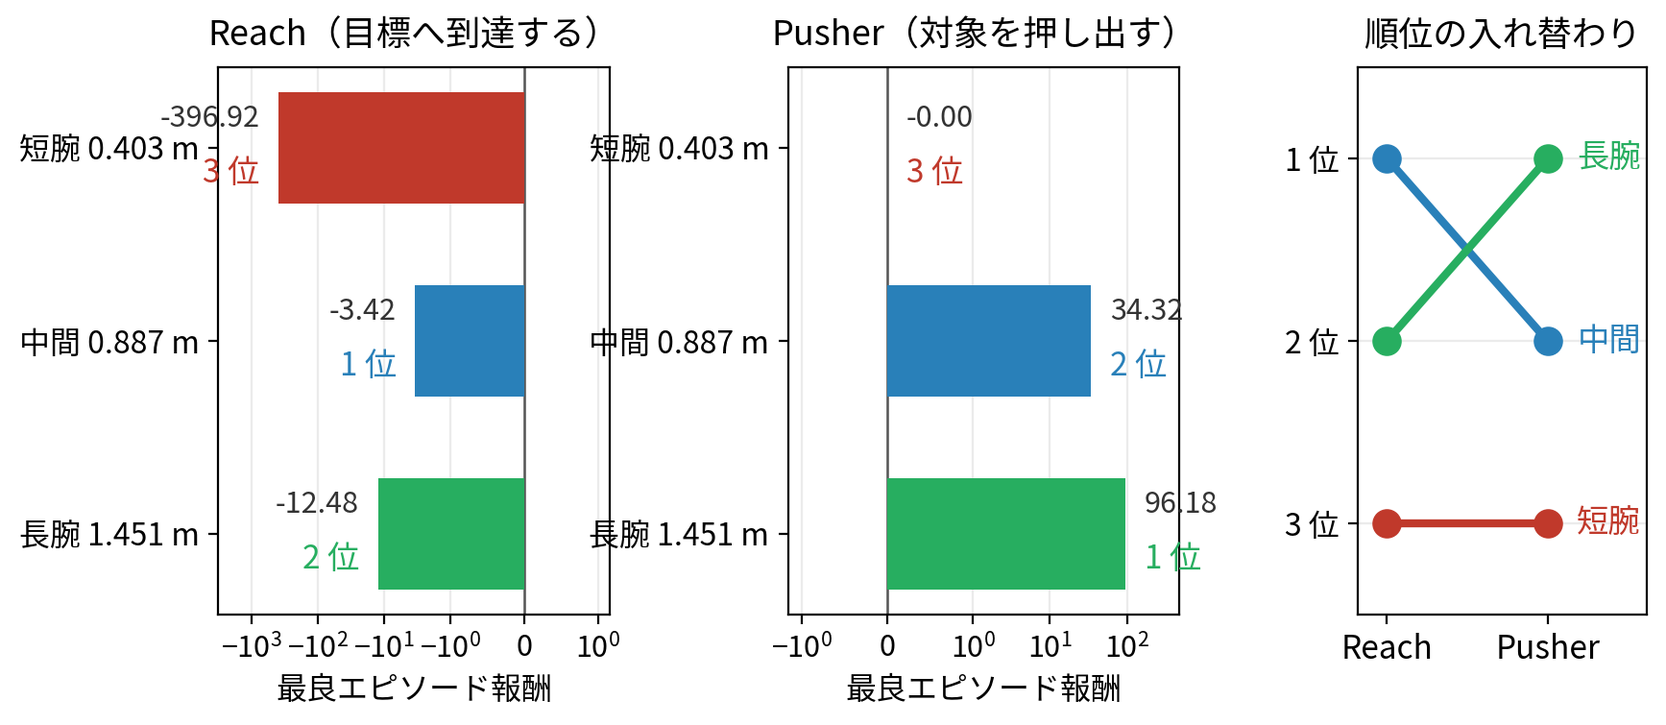
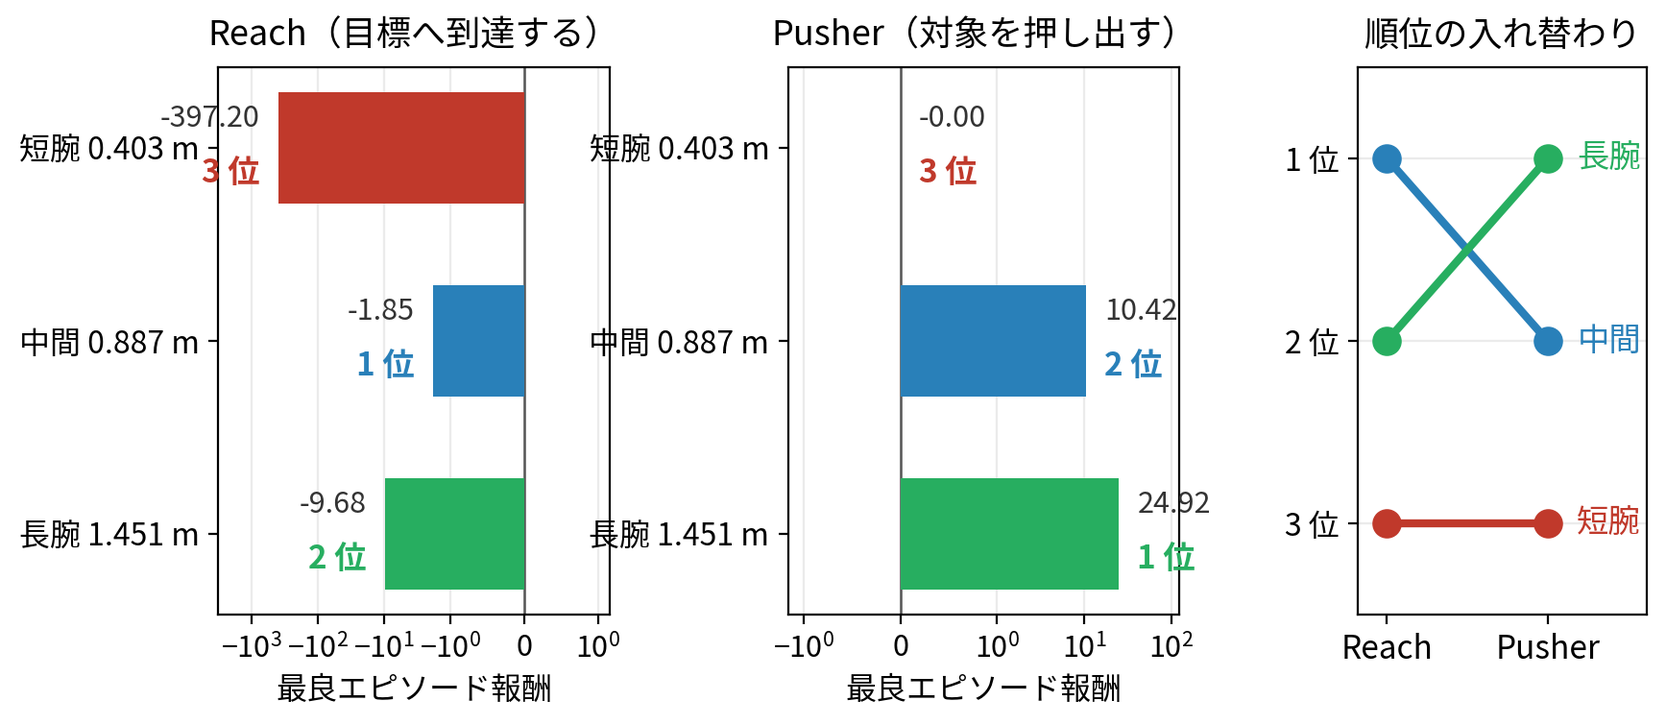
系譜 9-282・D-6: 修論 4.4.3.1・4.4.3.2 を実在の物理で書き直す — 短腕の gear は下限に張り付かず（J1 150）、長腕は ep0〜2 から短腕を下回らない。「下限への張り付きは不適合の指標にならない」は保たれる（届いた中間 seed0 が 3 関節とも 20）
- 系譜 9-282: マトリクス 10 本の収束した gear・太さ（arm_trace.npz）と順位が決まったエポック
- 修論 4.4.3.1（両版）: 表 4.11 を実在の物理の値に。旧い「3 関節とも下限」「第 26 エポックまで短腕が上」を外す
- 修論 4.4.3.2（両版）: 反転の機構を初期姿勢から目標までの距離（9-268）に。表 4.13（表 4.12 と同じ対応）と限界 1〜4 を外す＝型 27 の候補 ④。表 4.13 は欠番（振り直しは 50 ページ化の後）
- 図 4.4 を実在の物理のシード 0 から作り直す（make_thesis_figures.py の run 名）
- 4.6.3 に執筆メモ（R4 の旧い値と 9-282）。形態比較 ④ と CLAUDE.md §6 の署名の 1 句
- 外した本文は削除・圧縮記録（2026-10-22）。PDF 69 ページ

diff --git a/scripts/make_thesis_figures.py b/scripts/make_thesis_figures.py
@@ -73,8 +73,9 @@ def running_best(y):
 def fig_matrix_reversal():
     labels = ['短腕 0.403 m', '中間 0.887 m', '長腕 1.451 m']
     cols = [C_SHORT, C_MID, C_LONG]
-    runs_r = ['tripo_pj_short', 'tripo_pj_mid', 'tripo_pj_long']
-    runs_p = ['tripo_pjp_short', 'tripo_pjp_mid', 'tripo_pjp_long']
+    # 実在の物理のシード 0（系譜 9-246）。短腕は Bug 72 の門を直した取り直し（9-271）
+    runs_r = ['tripo_pj_short_phys_cg', 'tripo_pj_mid_phys', 'tripo_pj_long_phys']
+    runs_p = ['tripo_pjp_short_phys_cg', 'tripo_pjp_mid_phys', 'tripo_pjp_long_phys']
     best_r = [running_best(curve(r)[1])[-1] for r in runs_r]
     best_p = [running_best(curve(r)[1])[-1] for r in runs_p]
 

diff --git a/docs/研究応用/引き継ぎ_再起動後.md b/docs/研究応用/引き継ぎ_再起動後.md
@@ -14,7 +14,7 @@
 | | 中身 |
 |---|---|
 | 🔄 **稼働中（10-13〜）** | ⭐⭐ **実在の物理の値で全部やり直し（`*_phys` 43 本、`scripts/queue_phys.sh`、⛔ 10-14 08:59 に再投入＝速度の上限で位置も切る `CNOID_JOINT_MAX_VEL_STRICT=1` を足した（Bug 65・9-248。それまでの 6 本は `*_nostrict` へ退避。その前に tick の完了待ちを足して 1 回再投入、Bug 64・9-247）。⛔ **10-14 14:07 にもう一度再投入**＝回転子の慣性を 0.64 → 1.71（減速機の慣性を足した、9-251。XML は `*_phys_arm171`、止めた 2 本は `*_arm064`）、~~10-24 午後ごろ完走~~（9-254 の見積もり。⛔ 完走の見込みの正は進捗.md「残っている実験」、10-22 10 時 45 分の計算で閉ループの押しまで 10-23 19 時半ごろ（R1 の取り直しを割り込ませた、系譜 9-281）。旧: 10-21 17 時 20 分の計算で 10-23 18 時ごろ。付録D の 4 本は 10-21 に外した（a7bbb57）。旧: 付録D まで 10-27 16 時ごろ）（⚠ 10-18: ホッケーの取り直し 2 本が枠を取り合うので半日ほど後ろへずれる見込み、9-263）、系譜 9-246）**。~~最初の押しの柱 long・mid と armature 1 の対照 2 本で方向性を確かめる（読み ⑭⑮）~~（✅ 判定済み、系譜 9-259）。自動再生・ホッケーのゴール率・検査の比べる組は `*_phys` に切り替え済み。⚠ ディスクは 10-13 に退避 run の途中のチェックポイントを消して 14 GB → **10-14 には 12 GB**（完走までの見込み約 13.4 GB に足りない。✅ 10-14 ユーザー承認: 旧い物理の run の途中のチェックポイントを間引く `bash scripts/prune_archived_ckpts.sh --delete`（4031 ファイル・43 GB。best・最後・100 epoch ごと・100 以下は残す、`*_phys*` は触らない。系譜 9-254）。✅ 10-14 21:4x に実行（ユーザーが今回だけ許可）→ **空き 55 GB**。⚠ 10-20 22 時の実測は 40 GB（使用 96 %、系譜 9-270。残りの見込み 約 8 GB には足りる）。10-21 11 時 25 分の実測は 37 GB（96 %）。ホストのシェルでは `/userdir` が無いので `df -h ~/irsl_docker_irsl_system/userdir` で見る）。⭐ 変えた値の一覧は `研究応用/設計/シミュレーションの値の変更表.md`。⬇ 下の行は 10-12 以前の状態 |
-| ⭐ **次の一手（10-21 11 時 25 分時点、14 時 15 分・15 時 50 分・16 時 55 分・18 時 35 分・19 時 40 分・10-22 0 時 55 分・8 時 15 分に追記）** | ⭐ **10-22 8 時 15 分追記**: ✅ 8 時 20 分に push 済み（ユーザー「いいよ」、f6aa98f..3b3cfaa の 9 本）。✅ 押しの短腕 `tripo_pjp_short_phys_cg` を判定（系譜 9-280）: ⑯ 成立、表 4.12 が埋まった、R4 の残り 3 組も確定。⭐ Bug 72 の全数監査（実在の物理の完走 44 本）で、取り直し済みの 4 本のほかに汚れなし（9-279）。残り: R1（凍結の押し、seed1 は 16 時ごろ）→ ⑪〜⑬。⭐ 今のデータで書ける D-6: 4.4.3.1・4.4.3.2・4.5.1・4.5.4 の到達・4.5.5 の到達・4.6.2・4.6.3（ユーザーに一覧を示した、10-22 1 時）。⬇ **10-22 0 時 55 分追記**: ✅ 押しの dist `tripo_pjdp_dist_phys_cg` と到達の短腕 `tripo_pj_short_phys_cg` を判定した（系譜 9-279）: ⑲ 3/3・⑳・⑤-a（prox [11.39, 12.09] 対 dist [5.38, 7.04]）・① の後半・③ が成立。⛔ 押しの差の説明「立ち上がりやすさが主因」は崩れた（門を直した dist seed0 は ep10 で 62 % 触れて押せた）→ 修論 4.4.3.3 の押しの段落（両版）・Q27・知見総括表 E 節を直した。表 4.12 の Reach の短腕を埋めた。残り: ⑯（押しの短腕 `tripo_pjp_short_phys_cg`、10-22 7 時半ごろ完走）→ R4 の残り 3 組 → D-6。⚠ 4.4.3.1 の前向き判定の表（短腕 −396.92 など）は旧い物理の値のまま → D-6 で。⬇ **19 時 40 分追記**: 第4章の 4.1 を役割で組み替えた（上の「直近の決定」10-21 19 時、削除・圧縮記録 2026-10-21、型 27）。PDF は 72 ページのまま。次は新しい 4.1・4.2 を両版の行リンクで示して行の添削（本文で 4.1 は約 4,200 字、4.2 は約 2,300 字。組み替え前の 4.1 は同じ数え方で約 7,500 字）。⏳ 型 27 で全章を洗った候補 6 つ（4.6.5 の考察の重複・4.6.1 第 2 段落・即時性の 2 回・4.4.3.2 は D-6 のとき・付録の欠番 B/C・4.6.3 の理由の言い直し）は [わかりにくい文の判定.md](執筆/わかりにくい文の判定.md) §5 の 10-21「4.1 を役割で分けて組み替える」の行。どれもまだ直していない（ユーザーの判断待ち）。型は 1〜27。 ⭐ **18 時 35 分追記（チャットを替える前）**: (a) **修論の添削は第3章まで済んだ**（3.7〜3.12 を 10-21 夕に指摘・反映。次は第4章だが、結果の段落は D-6 待ちなので、入る前に「第4章の節ごとのページ予算表」を作るか、D-6 に依存しない節から進めるかをユーザーと決める）。(b) 型は [わかりにくい文の判定.md](執筆/わかりにくい文の判定.md) の 1〜26（26 = 項が 1 つしかない節は項を立てない。⭐ 19 時 40 分に 27 = 長い節は役割で大きく分けてから、を足した）。型 12 を各工程の節へ（途中経過の図に沿って書く）、型 24 にスクリプト名、型 25 に「図と文のあいだも同じ」を足した。§5 に 10-21 夕の記録が 6 表ある。(c) **PDF は 72 ページ**（18 時 30 分）。76 → 72 はビルドの表の列幅を等分から「文字量の平方根に比例」に変えた効果（822674b）。⏳ 次の候補: 表を浮動体にして、見出しだけページ末尾に残る空白を減らす（表 4.2 など。表が本文の位置から離れうるので、ユーザーに諮ってから）。⏳ 本文の ⚠ ⭐ ⛔ は PDF で空白になる（提出前に一括で外す）。(d) ✅ 10-21 18 時 40 分ごろ push 済み（ユーザー「push しようとしたらエラーが出たからそこまでお願い」、58fdfdb..5c95791）。⚠ ホストから push すると GitHub へは届くが、手元の `.git/logs` が root 所有なので `refs/remotes/origin/main` の更新で「許可がありません」と出る → コンテナで `git fetch origin` すればそろう。(e) **23 時 40 分ごろの 2 本**（`tripo_pj_short_phys_cg`・`tripo_pjdp_dist_phys_cg`）の完走を知らせる待ち受けは前のチャットのもので、新しいチャットには届かない → `tail -80 single_run/postrun_summary.log` に `=== tripo_pj_short_phys_cg` と `=== tripo_pjdp_dist_phys_cg` の行が出ていれば、ユーザーに知らせ、**確認を取ってから**判定（⑲ の 3 本目・⑤・⑳・① の後半・③・R4）に入る（ユーザー指示 10-21 夕）。(f) 図: 第3章の図 3.2〜3.5 は `scripts/render_pipeline_stages.py` の論文用（`figures/pipeline_*_paper.png`）。図 3.1 の原本 `執筆/システム図.drawio` を直したら `make_system_figure.py` で論文用を作り、書き出しはホストの draw.io を `DISPLAY=:1` で（コンテナに draw.io は無い。書き出し先は root 所有なのでスクラッチに出して `docker cp`）。⬇ 16 時 55 分追記: ⭐ **16 時 55 分追記（チャットを替える前）**: (a) **修論の添削は 3.7 から**（3.6 まで指摘済み。3.12.6 と 3.13 は外した。型は [わかりにくい文の判定.md](執筆/わかりにくい文の判定.md) の 1〜25。24 = 粒度の線〔本文に残すのは手順・理由・主張の範囲・再現に要るものだけ〕、25 = 同じ事実は測った場所で 1 回）。(b) 付録の見直しは済んだ（付録は A と D だけ。D は D.1〜D.4。D.5 非平面と本文 4.3.5 は外した、a68ce7f）。(c) `queue_phys.sh` は 10-21 16 時 47 分に PID 3245471 で再投入（v3 の 4 本を外した。残り 7 本は不変、a7bbb57）。(d) push していないコミットは 5 本（f836d37・a68ce7f・a7bbb57・23eac3a・acc177a）。push はユーザーの確認待ち。(e) 要旨_詳細版の第一・第三の貢献には旧い物理の数値（−3.42・96.18 など）が残っている → D-6 で差し替える。第二の貢献は acc177a で直した。(f) 修論 PDF は 75 ページ（10-21 16 時 50 分）。⬇ **15 時 50 分追記**: ✅ dist の到達 2 本を判定した（系譜 9-278）: 読み ② 成立（②-a、帯 [−1.82, −1.81] 対 [−2.30, −2.28]）、⑲ は到達の 2 本で成立（めり込み 0.0 mm）。差は保持精度ではなく寄せる速さ → 修論 4.3.3.4（両版）・要旨_詳細版・知見総括表・想定問答 Q25 を直した。残りは ② の 23 時 40 分の分（⑲ の 3 本目・⑤・⑳・① の後半・③・R4）。修論の添削は第3章 3.6 まで進んだ（3.6 以降の指摘待ち、型は 1〜24）。push していないコミットは 3 本（e800ef1 までは 15 時台に push 済み。0e88a6a・c965949・71c6516 が未 push）。⬇ 14 時 15 分追記（チャットを替える前）: (a) dist の 2 本の完走を知らせる待ち受けは前のチャットのもので、新しいチャットには届かない → `tail -80 single_run/postrun_summary.log` に `=== tripo_pjd_dist_phys_cg （` と `=== tripo_pjd_dist_phys_cg_s2 （` の 2 行が出ていれば判定に入る（14 時 15 分の学習ログでは 15 時前後と 15 時半ごろ完走の見込み） (b) **修論の添削は 2.5 から**（第 1 章・第 2 章 2.1〜2.4 は指摘済み。指摘の型は [わかりにくい文の判定.md](執筆/わかりにくい文の判定.md) §3 の 1〜19、記録は §5。進め方はメモリ「修論の添削の流れ」— 口語版に指摘 → 本文も直す → 型にして両版を洗う → PDF を作り直す → 次の節を両版の行リンクで示す）。第 4・5 章の節参照（型 14）は D-6 のときに洗う (c) ~~push していないコミットが 18 本~~ → ✅ 10-21 14 時 20 分ごろ push 済み（ユーザー「とりあえず PUSH していいよ」、32dcd0a..aa5c090 の 19 本） (d) 勉強（[執筆/勉強.md](執筆/勉強.md)）は Claude のセッションが上限の時間にユーザーがやる。⬇ 以下は 11 時 25 分の内容: ① **15 時 20 分ごろ**: dist の到達の取り直し 2 本（`tripo_pjd_dist_phys_cg` / `_cg_s2`）の自動再生と検査が済んだら、`check_before_conclusion.py` → 図を見て目視記録 → 事前登録どおりに読み ⑲（門が効いたか）・②（配分 prox ＞ dist）を判定 → 系譜 → 修論 4.3.3.4（`queue_dist_capgate.sh` の頭に読み）② **23 時 40 分ごろ**: 短腕の到達 `tripo_pj_short_phys_cg` と押しの dist `tripo_pjdp_dist_phys_cg` → 読み ⑳・① の後半・③・⑤ の読み直し・R4（`rank_settle.py`）→ そろったら D-6（4.3.3.3・4.4.4・4.5.3・付録D.4）③ 10-22: R1（形を凍結した押し）2 本 8 時・16 時ごろ ④ 10-23: アーム（研究室の部品・XL430）を受け取り、縮尺 k・リンク長・可動域を決める（スケール表の残り 7 行）／夕方に閉ループの押し ⑤ 10-27 以降: ホッケー seed1 → 障害物 Reach（D-5）2 本（`queue_obspen_phys.sh` が待機中）。学習の途中の見張り `watch_midrun.sh`（PID 2637557）と後から足した run の自動再生（PID 2626509）が動いている |
+| ⭐ **次の一手（10-21 11 時 25 分時点、14 時 15 分・15 時 50 分・16 時 55 分・18 時 35 分・19 時 40 分・10-22 0 時 55 分・8 時 15 分に追記）** | ⭐ **10-22 11 時追記**: ✅ md の食い違いを直した（d637b9f。知見総括表 E 節の付録D・進捗の短腕の「取り直し中」・見込みを R1 の取り直し込みで 10-23 19 時半に・読み方ガイドの表を 31 / 40 に）。⚠ `queue_obspen_phys.sh` 34 行目の「10-27」は動いている bash なので書き換えていない（終わってから直す）。✅ D-6 を 4.4.3.1・4.4.3.2 から始めた（両版、系譜 9-282、表 4.13 は欠番）。次の D-6 は 4.6.3（R4）と 5.3 (D)。⬇ ⭐ **10-22 8 時 15 分追記**: ✅ 8 時 20 分に push 済み（ユーザー「いいよ」、f6aa98f..3b3cfaa の 9 本）。✅ 押しの短腕 `tripo_pjp_short_phys_cg` を判定（系譜 9-280）: ⑯ 成立、表 4.12 が埋まった、R4 の残り 3 組も確定。⭐ Bug 72 の全数監査（実在の物理の完走 44 本）で、取り直し済みの 4 本のほかに汚れなし（9-279）。残り: R1（凍結の押し、seed1 は 16 時ごろ）→ ⑪〜⑬。⭐ 今のデータで書ける D-6: 4.4.3.1・4.4.3.2・4.5.1・4.5.4 の到達・4.5.5 の到達・4.6.2・4.6.3（ユーザーに一覧を示した、10-22 1 時）。⬇ **10-22 0 時 55 分追記**: ✅ 押しの dist `tripo_pjdp_dist_phys_cg` と到達の短腕 `tripo_pj_short_phys_cg` を判定した（系譜 9-279）: ⑲ 3/3・⑳・⑤-a（prox [11.39, 12.09] 対 dist [5.38, 7.04]）・① の後半・③ が成立。⛔ 押しの差の説明「立ち上がりやすさが主因」は崩れた（門を直した dist seed0 は ep10 で 62 % 触れて押せた）→ 修論 4.4.3.3 の押しの段落（両版）・Q27・知見総括表 E 節を直した。表 4.12 の Reach の短腕を埋めた。残り: ⑯（押しの短腕 `tripo_pjp_short_phys_cg`、10-22 7 時半ごろ完走）→ R4 の残り 3 組 → D-6。⚠ 4.4.3.1 の前向き判定の表（短腕 −396.92 など）は旧い物理の値のまま → D-6 で。⬇ **19 時 40 分追記**: 第4章の 4.1 を役割で組み替えた（上の「直近の決定」10-21 19 時、削除・圧縮記録 2026-10-21、型 27）。PDF は 72 ページのまま。次は新しい 4.1・4.2 を両版の行リンクで示して行の添削（本文で 4.1 は約 4,200 字、4.2 は約 2,300 字。組み替え前の 4.1 は同じ数え方で約 7,500 字）。⏳ 型 27 で全章を洗った候補 6 つ（4.6.5 の考察の重複・4.6.1 第 2 段落・即時性の 2 回・4.4.3.2 は D-6 のとき・付録の欠番 B/C・4.6.3 の理由の言い直し）は [わかりにくい文の判定.md](執筆/わかりにくい文の判定.md) §5 の 10-21「4.1 を役割で分けて組み替える」の行。どれもまだ直していない（ユーザーの判断待ち）。型は 1〜27。 ⭐ **18 時 35 分追記（チャットを替える前）**: (a) **修論の添削は第3章まで済んだ**（3.7〜3.12 を 10-21 夕に指摘・反映。次は第4章だが、結果の段落は D-6 待ちなので、入る前に「第4章の節ごとのページ予算表」を作るか、D-6 に依存しない節から進めるかをユーザーと決める）。(b) 型は [わかりにくい文の判定.md](執筆/わかりにくい文の判定.md) の 1〜26（26 = 項が 1 つしかない節は項を立てない。⭐ 19 時 40 分に 27 = 長い節は役割で大きく分けてから、を足した）。型 12 を各工程の節へ（途中経過の図に沿って書く）、型 24 にスクリプト名、型 25 に「図と文のあいだも同じ」を足した。§5 に 10-21 夕の記録が 6 表ある。(c) **PDF は 72 ページ**（18 時 30 分）。76 → 72 はビルドの表の列幅を等分から「文字量の平方根に比例」に変えた効果（822674b）。⏳ 次の候補: 表を浮動体にして、見出しだけページ末尾に残る空白を減らす（表 4.2 など。表が本文の位置から離れうるので、ユーザーに諮ってから）。⏳ 本文の ⚠ ⭐ ⛔ は PDF で空白になる（提出前に一括で外す）。(d) ✅ 10-21 18 時 40 分ごろ push 済み（ユーザー「push しようとしたらエラーが出たからそこまでお願い」、58fdfdb..5c95791）。⚠ ホストから push すると GitHub へは届くが、手元の `.git/logs` が root 所有なので `refs/remotes/origin/main` の更新で「許可がありません」と出る → コンテナで `git fetch origin` すればそろう。(e) **23 時 40 分ごろの 2 本**（`tripo_pj_short_phys_cg`・`tripo_pjdp_dist_phys_cg`）の完走を知らせる待ち受けは前のチャットのもので、新しいチャットには届かない → `tail -80 single_run/postrun_summary.log` に `=== tripo_pj_short_phys_cg` と `=== tripo_pjdp_dist_phys_cg` の行が出ていれば、ユーザーに知らせ、**確認を取ってから**判定（⑲ の 3 本目・⑤・⑳・① の後半・③・R4）に入る（ユーザー指示 10-21 夕）。(f) 図: 第3章の図 3.2〜3.5 は `scripts/render_pipeline_stages.py` の論文用（`figures/pipeline_*_paper.png`）。図 3.1 の原本 `執筆/システム図.drawio` を直したら `make_system_figure.py` で論文用を作り、書き出しはホストの draw.io を `DISPLAY=:1` で（コンテナに draw.io は無い。書き出し先は root 所有なのでスクラッチに出して `docker cp`）。⬇ 16 時 55 分追記: ⭐ **16 時 55 分追記（チャットを替える前）**: (a) **修論の添削は 3.7 から**（3.6 まで指摘済み。3.12.6 と 3.13 は外した。型は [わかりにくい文の判定.md](執筆/わかりにくい文の判定.md) の 1〜25。24 = 粒度の線〔本文に残すのは手順・理由・主張の範囲・再現に要るものだけ〕、25 = 同じ事実は測った場所で 1 回）。(b) 付録の見直しは済んだ（付録は A と D だけ。D は D.1〜D.4。D.5 非平面と本文 4.3.5 は外した、a68ce7f）。(c) `queue_phys.sh` は 10-21 16 時 47 分に PID 3245471 で再投入（v3 の 4 本を外した。残り 7 本は不変、a7bbb57）。(d) push していないコミットは 5 本（f836d37・a68ce7f・a7bbb57・23eac3a・acc177a）。push はユーザーの確認待ち。(e) 要旨_詳細版の第一・第三の貢献には旧い物理の数値（−3.42・96.18 など）が残っている → D-6 で差し替える。第二の貢献は acc177a で直した。(f) 修論 PDF は 75 ページ（10-21 16 時 50 分）。⬇ **15 時 50 分追記**: ✅ dist の到達 2 本を判定した（系譜 9-278）: 読み ② 成立（②-a、帯 [−1.82, −1.81] 対 [−2.30, −2.28]）、⑲ は到達の 2 本で成立（めり込み 0.0 mm）。差は保持精度ではなく寄せる速さ → 修論 4.3.3.4（両版）・要旨_詳細版・知見総括表・想定問答 Q25 を直した。残りは ② の 23 時 40 分の分（⑲ の 3 本目・⑤・⑳・① の後半・③・R4）。修論の添削は第3章 3.6 まで進んだ（3.6 以降の指摘待ち、型は 1〜24）。push していないコミットは 3 本（e800ef1 までは 15 時台に push 済み。0e88a6a・c965949・71c6516 が未 push）。⬇ 14 時 15 分追記（チャットを替える前）: (a) dist の 2 本の完走を知らせる待ち受けは前のチャットのもので、新しいチャットには届かない → `tail -80 single_run/postrun_summary.log` に `=== tripo_pjd_dist_phys_cg （` と `=== tripo_pjd_dist_phys_cg_s2 （` の 2 行が出ていれば判定に入る（14 時 15 分の学習ログでは 15 時前後と 15 時半ごろ完走の見込み） (b) **修論の添削は 2.5 から**（第 1 章・第 2 章 2.1〜2.4 は指摘済み。指摘の型は [わかりにくい文の判定.md](執筆/わかりにくい文の判定.md) §3 の 1〜19、記録は §5。進め方はメモリ「修論の添削の流れ」— 口語版に指摘 → 本文も直す → 型にして両版を洗う → PDF を作り直す → 次の節を両版の行リンクで示す）。第 4・5 章の節参照（型 14）は D-6 のときに洗う (c) ~~push していないコミットが 18 本~~ → ✅ 10-21 14 時 20 分ごろ push 済み（ユーザー「とりあえず PUSH していいよ」、32dcd0a..aa5c090 の 19 本） (d) 勉強（[執筆/勉強.md](執筆/勉強.md)）は Claude のセッションが上限の時間にユーザーがやる。⬇ 以下は 11 時 25 分の内容: ① **15 時 20 分ごろ**: dist の到達の取り直し 2 本（`tripo_pjd_dist_phys_cg` / `_cg_s2`）の自動再生と検査が済んだら、`check_before_conclusion.py` → 図を見て目視記録 → 事前登録どおりに読み ⑲（門が効いたか）・②（配分 prox ＞ dist）を判定 → 系譜 → 修論 4.3.3.4（`queue_dist_capgate.sh` の頭に読み）② **23 時 40 分ごろ**: 短腕の到達 `tripo_pj_short_phys_cg` と押しの dist `tripo_pjdp_dist_phys_cg` → 読み ⑳・① の後半・③・⑤ の読み直し・R4（`rank_settle.py`）→ そろったら D-6（4.3.3.3・4.4.4・4.5.3・付録D.4）③ 10-22: R1（形を凍結した押し）2 本 8 時・16 時ごろ ④ 10-23: アーム（研究室の部品・XL430）を受け取り、縮尺 k・リンク長・可動域を決める（スケール表の残り 7 行）／夕方に閉ループの押し ⑤ 10-27 以降: ホッケー seed1 → 障害物 Reach（D-5）2 本（`queue_obspen_phys.sh` が待機中）。学習の途中の見張り `watch_midrun.sh`（PID 2637557）と後から足した run の自動再生（PID 2626509）が動いている |
 | ⬇ **旧: 次の一手（10-17〜10-20 の経緯。中身は系譜 9-263・9-264 にある）** | ⭐ **ホッケーは取り直す（ユーザー判断 10-17）。** Bug 69 を直し、初期配置を箱の表面で測って隙間 10 cm にした（系譜 9-263、投入前の再生で 160 話すべて 100 mm 以上・重なり 0）。✅ `scripts/queue_hockey_phys_g10.sh` を 10-18 00:01 に投入（queue_phys.sh と 2 本の枠を取り合う）。⚠ 完走後の自動再生の一覧に `hockey_bank9_phys_g10(_s2)` が無いので、完走したら反実仮想の再生と `check_before_conclusion.py` を手で回す。 ✅ 読み ①（long ＞ mid、9-6 押し側は成立）・⑭（1.71 で続ける）・⑤（prox と dist は離れる、主因は立ち上がりやすさ）を判定済み（系譜 9-259）。✅ 読み ⑥（R2、ギア比の帯が 4 関節とも分かれる）成立（系譜 9-261）。R3 は押し側だけ判定済み（読み ⑤）、到達側は到達の組（`tripo_pjd_*_phys`）で判定する。① 残る判定は事前登録（`queue_phys.sh` 27〜44 行）の順に、各組が 2 seed そろったら: ホッケー → 到達 → R1 → 付録D。⭐ 手順は 9-259 と同じ（`check_before_conclusion.py` → 図を見て目視記録 → 事前登録どおり）。② 先生にサーボの電圧・回転子の慣性・摩擦・減衰を聞く（進捗 L-2b）。③ 学習の途中の見張り `watch_midrun.sh` が動いている（9-256）。`tail single_run/midrun_check.log` に ⛔⛔ があれば完走を待たずに見る。④ 新しいチャットは [新しいチャットの始め方.md](../リポジトリ説明/新しいチャットの始め方.md) の ① を貼って始める ⭐ **10-19 01:30 追記**: seed0（`hockey_bank9_phys_g10`、10-18 15:41 完走）の 20 話の軌跡は取得済み（`trace/arm_trace_20.npz`・`arm_trace_20.png`）。`judge_hockey_goal.py` の速報は「隙間 ≥ 10 cm の 20 話でゴール 7・0.1 m 以上動いた 13」だが、**ゴール 2 話（19・20）に「腕が離れて加速」の印があり、中央値の話はパックが x = 1.40 で y 方向だけに往復する**ので、図で確かめるまで数えない（未判定・台帳未記入）。⏳ **seed1（`_g10_s2`）の完走（10-19 02:00 ごろ）後に手で回す**: 20 話の軌跡 → 両 seed で判定（読み ⑧〜⑩ は変えない）→ 反実仮想の再生・`check_before_conclusion.py`・不変条件 → 目視記録 → 系譜 9-263 へ記入。 ⭐ **10-19 03:00 追記: 上の手順は済んだ（系譜 9-263 ⑥）。**seed0 ゴール 7/20・seed1 0/20（12/20 で 0.1 m 以上）。⛔ **壁の反射が跳ね返りの約 6 回に 1 回、速度を約 1.7 倍にしていた（Bug 70、原因は推測）**。それを含むゴール 2 話を除いても seed0 の 5 話で読み ⑧ は成り立つ。✅ **決定（10-19、ユーザー）: Bug 70 を直して取り直す。**原因を確かめ（最後の tick で発火したときだけ比 1.64〜1.67）、直した（0e85d21、修正後 16 回すべて 0.71）。⭐ `scripts/queue_hockey_phys_g10_wfix.sh` を 10-19 03:17 に投入（`hockey_bank9_phys_g10_wfix` / `_s2`、起動行は `_g10` と同じ）。枠が空き次第入る（`e2e_a1_fix3_reach_phys` が 07 時ごろ・`tripo_pj_mid_phys_s2` が 10 時半ごろ完走、`queue_phys.sh` と取り合う）。~~⏳ 完走後に手で回す~~ → ✅ **10-19 20:00 済み（系譜 9-263 ⑦）: seed0 ゴール 8/20・seed1 2/20、跳ね返りの比はすべて 0.71 → 読み ⑧ 成立。**~~⏳ ユーザー判断~~（✅ 10-20 に解消: 3 回目の取り直し blk3d の seed0 ゴール 4/20 で修論 4.6.4 を書いた（946be67、ユーザー「お願い」）ので、wfix の 8/20 をどう数えるかは問わなくなった。系譜 9-270）: ① 修論に「20 話中 8 話」と書くか、パックの関節の下限 x = 0.20（見えない奥の壁）に当たったゴール 4 話を除くか ② seed1 で腕が板の xy の柱（腕の壁ブロックは高さを見ない）に止まる件 → ✅ 10-19 20 時半に調べた（系譜 9-263 ⑧・Bug 71）: 動かない 16 話のうち 14 話はブロックが腕を凍らせていた（方策が選んだのではない）。✅ **決定（10-19 21 時、ユーザー）: ブロックを 3 次元（カプセルと箱の重なり）にしてホッケー 2 本を取り直す。**理由: seed1 の 2/20 が作り物の柱に押し下げられており、形態の比較に交絡が入るため（Bug 71）。✅ 10-19 21 時: `HOCKEY_ARM_BLOCK=3d`（下端は床まで。単に 3 次元だと宙に浮いた壁の下をくぐれた）を実装・確かめ、`scripts/queue_hockey_phys_g10_blk3d.sh` を投入（`hockey_bank9_phys_g10_blk3d` / `_s2`、系譜 9-263 ⑨）。⏳ 完走後は ⑦ と同じ手順＋凍った話の数を手で回す。 ⚠ **10-19 追記: 到達の dist（`tripo_pjd_dist_phys`）seed0 の再生で NaN（9-264）**。到達の読み ② を判定する前に、seed1 でも起きるかと NaN の話を除いた到達を見る（台座の球の限界、9-241・9-242）。x = 1.40 の往復は壊れ方ではなかった（壁の摩擦で x の速度が消えただけ）。 ⛔ **10-20 追記: dist の失敗 2 本（到達・押しの seed0）は、`11` のカプセルが関節の後ろへ 0.18〜0.19 m はみ出して（設計変数 `ext_start`）台座の球に 13 cm 食い込んだ形だった（Bug 72）。**✅ **決定（10-20 12 時半、ユーザー「c で」）: dist の扱い（限界として書く／設計空間を変えて取り直す）は、到達 dist seed1（`tripo_pjd_dist_phys_s2`、14 時ごろ完走）が同じ穴に落ちたかを見てから決める。**理由: seed1 も食い込むなら dist の形そのものが落ちやすい穴で、食い込まずに届くなら seed0 の失敗はくじの結果と分かり、取り直すかの判断が変わるため。⏳ 完走・自動再生の後に `audit_capsule_ext.py`（XML の書き出しから）を回し、結果を持ってユーザーに諮る。修論 4.3.3.4「押しタスクでの確認」の先端重 −0.00（食い込んだ seed0）の扱いも同じときに諮る。 ✅ **10-20 14 時: dist seed1 も食い込んで届かなかった。決定（ユーザー）: 門を本当のカプセルで測るよう直して dist の 3 本を取り直す、到達の残りの後に入れる。**理由: dist の 4 本中 3 本が長さの配分ではなく台座への食い込みで負けており、このままでは読み ② も 9-259 の ⑤ も配分の比較にならないため。prox・mid は構造上食い込めないので、門を直しても比較は 1 変数のまま。⭐ `scripts/queue_dist_capgate.sh` を投入（`tripo_pjd_dist_phys_cg` / `_cg_s2`、`tripo_pjdp_dist_phys_cg`、系譜 9-264）。⏳ 完走後: 読み ⑲ → ②・⑤ を判定し、修論 4.3.3.4 を直す。 |
 | ⛔ **置き換え済み（10-13）** | ⛔ `queue_phys.sh` へ置き換えた（9-246）。旧: ⭐ **自己干渉ありの取り直し 43 本**（`queue_selfcol_cull.sh`。押しの柱 8 → 軸5 14 → ホッケー 2 → **到達 15（箱なし）** → 付録D 4。10-24 ごろまで自動（10-12 にやり直し）。系譜 9-232・9-234）→ その後 R1 の 2 本（`queue_r1_frozen.sh`、10-25 ごろ。9-233）。⛔⛔ **10-12 22:05 に「制御入力を ±1 で切る（`CNOID_CTRL_CLIP=1`、Bug 60）」と「腕の関節の減衰を MuJoCo と同じトルク −b·q̇ に（`CNOID_HINGE_DAMP_TORQUE=1`、Bug 61）」で 45 本を最初からやり直した（9-242・9-244、10-24 ごろ完走）。それ以前は `*_noclip`（16 本）・`*_clip_olddamp`（4 本）へ退避**（押しの柱の読み ①④ は noclip での結果。切った版で判定し直す）。⛔ Bug 59（軸5 の密度・実在と付録D の押しの報酬が既定値だった）→ `$PUSH` にそろえてキュー再投入（9-238）。⚠ 9-227 の `*_scg` 8 本は修論に使わない。⭐ 再生は `launch_env.json` から学習時の環境を自動で読む（9-236）。到達の箱なしは学習時の設定に入っているので不要。⭐ 結論前の検査に「比べる相手」（起動行の diff）を追加、ホッケーの判定は `judge_hockey_goal.py` ⭐ 終わった run は `queue_postrun_replay.sh` が自動で学習時の環境で再生・図・検査し、`single_run/postrun_summary.log` に並べる（9-236）。目視は人がする |
 | ⭐ **直近の決定** | ⭐ **10-22 10 時 40 分（ユーザー「おすすめで」）: キューの順番は「修論の核を埋められるか」で決める**（核＝修論 表 4.3 の R1〜R4・軸3。核の run は空いた枠へ割り込ませ、ホッケー・障害物 Reach・軸6 など核の外は後ろ）。理由: GPU は 2 本並列が律速で、順番がそのまま修論の空欄が埋まる日になるため。研究方針.md「キューへの投入の優先度」と CLAUDE.md §6。これに従い `queue_r1_fx.sh` を 10:37 に割り込みで投入（HEAD c86c04e。16:45 ごろ・18:45 ごろの枠に入り、10-23 1 時・3 時ごろ完走の見込み。閉ループの押しの最後は 10-23 19 時半ごろへ）。並びは 2.11 倍の押し → R1 → 閉ループの押し → ホッケー seed1 → 障害物 Reach で、基準に合っている。<br>⛔ **10-22 10 時 27 分（ユーザー「止める」）: R1 の seed1 `tripo_pjp_mid_frozen_phys_s2` を ep58 で止めた**（コンテナ内 PID 20707 と子 4 本を kill -9）。理由: `design_opt/utils/config.py:104` が `robot_param_scale` を cfg の yml からしか読まず、起動行の `+robot_param_scale=0.0001` が無視されていた。凍結と非凍結が同じ学習になり、seed0 は `tripo_pjp_mid_phys` と 200 epoch すべての exec_R_eps が一致（best 10.42 同士）、seed1 も `_s2` と 60 epoch 一致。R1 の読み ⑪〜⑬ は今のデータでは判定できない。起動行と yml が食い違う run は全 321 本中 5 本（R1 の 2 本と旧い物理の rrbot 3 本、うち `rrbot_arm_reach_fixmorph_s1`）。空いた枠には `tripo_pjr211p_phys_s2` が入った。✅ **直し方は (a) FLAG から読む（ユーザー「いいよ」）**。理由: 起動行と yml が食い違う run が全 321 本中 5 本だけで巻き込みが小さく、(b) 凍結用の cfg を作る案では「起動行の値が黙って捨てられる」穴が残るため（旧い rrbot の fixmorph も同じ穴で凍結されていなかった）。`train.py` が効いた値と出どころを一次ログに出す。`check_before_conclusion.py` に曲線の一致の検査を足した。記録は Bug 74・系譜 9-281。取り直しは `scripts/queue_r1_fx.sh`（`_fx` / `_fx_s2`）で、⏳ 投入の順番はユーザーの判断待ち。<br>⭐ **10-21 21 時 55 分（ユーザー「2までやろう」）**: 再発を防ぐ道具を 2 つ足した — `check_section_refs.py` に**欠番**の検査（4.3.1・4.3.3.2 の欠番を人が読んで見つけたので。付録 B・C は理由つきで意図した欠番に）、`scripts/renumber_sections.py`（対応表を 1 回だけ当てる。同じ日に組み替えが 2 回あり、2 回当てると連鎖で二重にずれるので、当てたファイルを `修論ドラフト/節番号の付け替え記録.tsv` に残して 2 回目を止める。4.1 の付け替えはさかのぼって記録した）。⏳ **見つけたが直していない: 第4章の表番号が文書順でなく抜けも多い**（表 4.2 → 4.1 → 4.3 → 4.5 → 4.23 → 4.11 …、4.4・4.6〜4.10 などが無い。CLAUDE.md §4-2 は「文書順に繰り下げる」。表番号は PDF でも手で管理しているので、振り直すなら renumber と同じく対応表を 1 回当てる形で。50 ページ化で表が減るなら、その後に 1 回で）。<br>⭐ **10-21 21 時 40 分（ユーザー「おすすめで」、型 27 の洗い出しの候補）**: ①②③⑥ を両版で直した — 4.6.5「考察」を消し（結果の章の中の考察で、4 段落のうち 3 つが 4.5.2・4.6.1・5.1 と重なっていた）、再現性の教訓と利用者評価の範囲は 5.3 (A) へ、「第1層以外ではサイクルが閉じない」と利用者実験は 5.4 の 4 へ。4.6.1 の寄与の主張・4.6.2 の即時性・4.6.3 の機序の言い直しは 5.3・5.3 (D)・第3章前段 3.4 を指す形に。**④ 4.4.3.2 の考察と限界は D-6 で書き換えるときに分ける**（旧い物理の値のまま分けると 2 度手間）。**⑤ 付録の欠番 B・C は 50 ページ化の判断と一緒に決める**（D→B は本文 10 か所余り・35 ファイルに波及するので、付録の構成が決まってから 1 回で）。記録は 削除・圧縮記録「4.6 の重複を外す」と判定 md §5。<br>⭐ **10-21 19 時（ユーザー、修論第4章の 4.1 の組み替え）**: 4.1（本文 約 7,300 字。⚠ 新しいチャットが最初に「約 2 万字」と言ったのは awk がバイトを数えた誤り）を役割で 4 つに分けた — Ⅰ 実験の条件・Ⅱ 評価の枠組み・Ⅲ 設定の根拠・Ⅳ 結果。決定: ① 4.1 には条件（Ⅰ）だけを残す ② Ⅱ（要求仕様 R1〜R4・評価指標・順位の規則・実験の一覧）は 4.1 の直後に新しい 4.2 として 1 節にまとめ、表 4.3 と表 4.21 を 1 枚にする。以降の節は 1 つずつ繰り下がる（軸1 → 4.3 … ホッケー → 4.7）③ Ⅲ（旧 4.1.6、表 4.4）は外し、「そのまま移すと何が壊れるか」を各設定の横に 1 句ずつ置く（案 a）。採らなかった案と PBRS の予防的な設定は想定問答へ ④ R1 の実験（Ⅳ）は軸2 の 4.4.1 へ（旧 4.3.1 が欠番だった）。あわせて欠番の旧 4.3.3.2 を詰める。理由: 実験設定の節に評価の枠組み・根拠・結果が混ざり、根拠を 2 回言っていた（表 4.4 の右列が 4.1.1・4.1.2 を指し返すだけ）。R1〜R4 は 4.3 以降の物差しなので条件の後・結果の前に置く。参照の置き換えは旧 → 新の対応表で一度に行い、日付つきの記録（系譜・削除・圧縮記録・計画書）は置き換えない（822674b と同じ扱い）。⚠ `check_section_refs.py` は節が 1 つずつずれると古い番号が別の実在する節を指すので検出できない（旧 4.5.3 R4 → 新 4.5.3 は軸3）。 ⭐ **10-21 夕（ユーザー、修論第3章の添削）**: ① 項が 1 つしかない節は項を立てない（3.6.1・3.7.1 を外した。理由: 並ぶ相手のいない見出しは区別するものが無い。型 26）② 手順を見せる図は第3章に置き、手描き A1 を入力の例として使う。測った結果は第4章（3.9 の被覆の評価は 4.2.2 へ。理由: A1 を例にするのは方法の説明で、成否は 4.5 節で言う。ユーザー「それでいこう」）③ 図が見せていることは文で言い直さない（図 3.1 の凡例・配置、XML の入れ子など。理由: 「百聞は一見にしかず」、文字で過剰に説明しない。型 25 を図に広げた）④ スクリプト名は本文に書かない（理由: 論文はソースコードの解説書ではない。型 24）⑤ 採らなかった代替案（OBB）は本文に書かず想定問答へ（Q29）。理由: 「努力の過程を見せる場ではない」。OBB はこのシステムの以前の版で、今の方法は「骨の軸に沿って測る」の 1 句で理由が言える。4.2.2 も OBB との比較を外した（ユーザー「b で」）⑥ 3.12 の三層は表にする（フローチャートにしない。理由: 分岐は図 3.1 が描いていて、残るのは層ごとの比較）。参照だけの項・他章と重複する項は外す⑦ 重複に見える段落は、執筆メモでなぜ足したかを読み、その段落にしか無い論点・それに頼っている文書（想定問答など）を確かめてから消す（ユーザー「本当に消して良いものなのかをもう一度調べてから消そう」。2.2 の決定論の但し書きは査読への答えなので残した）⑧ 付録へ移すだけでは減らない（09-30 に実測）。効いたのは載せるかの線引き（付録C 廃止 −6 p・道の小石 −23 p）。50 ページには、第4章で軸を落とすかなど 10-19 から保留の 3 判断（50 ページ化計画 §12）が要り、D-6 と同時に決める。 ⭐ **10-21 17 時 20 分（ユーザー「D7 はまだやらない」）**: D-7（結合テスト）はキューに足さない。理由はユーザーは述べていない（10-21 11 時の「D-7 はやるかもまだ決めてない、ホッケーの後で」の続き）。あわせて、付録D を外した後の完走の見込みを進捗.md・引き継ぎで直した（本キューは閉ループの押し 10-23 18 時ごろで終わる）。~~`queue_obspen_phys.sh`（58 行目）は外した `tripo_arm_v3_pusher_phys_s2` の起動を待っているので、このままではホッケー seed1 と D-5 が起動しない（10-21 17 時に見つけた。止めて再投入が要る、ユーザー確認待ち）~~ → ✅ 10-21 17 時 26 分に直した（ユーザー承認。待つ相手を本キューの最後の `e2e_a1_fix3_pusher_phys_s2` に書き換えて再投入、コンテナ内の PID 3287303、7b92912）。 ⭐ **10-21 17 時（ユーザー「d5消していいよ」）**: 付録D D.5（非平面 `tripo_arm_v3`、人手のモデル・旧い物理）と本文 4.3.5 を外し、D.6 → D.4。非平面は 4.3.2 の `e2e_a1v` で足りるため。キューの v3 の 4 本（1000 epoch）も外した（ユーザー「外す。必要だと思ったらやる」。キューを PID で止めて再投入、残り 7 本は不変。a7bbb57）。 ⭐ **10-21 16 時台（ユーザー、修論の分量）**: ① 本文に残すのは手順・理由・主張の範囲・再現に要るものだけ（型 24、「その線で消していいよ」）② 同じ事実は測った場所で 1 回（型 25）③ ホッケー 4.6 は付録へ移さず本文で縮める ④ 3.13 実装環境は付録D.2 へ移し、外部サービスの設定は実験ごとに表 D.2（3.6.1 の「API・gemini-3-pro-image」は報告した形態と食い違っていたため）⑤ Tripo3D は v2.5-20250123 と言い切る（ユーザーが Web も 7 月から不変と確認）。理由: 50 ページの方針（研究方針）に対し本文が減っていなかった。記録は削除・圧縮記録.md（10-21）。⬇ ⭐ **10-21 12 時ごろ（ユーザー、修論の添削）**: ① 2.4 は増やさずに組み直す（予告の 4 つの流れと本文をそろえ、流れごとに 1〜2 文・運動学は括弧で 1 回定義・作業空間と Klar を 1 文ずつ・「可操作性 ≠ 報酬」は削る・細かい比較は想定問答 Q10 へ）。理由: 第 2 章は 50 ページ化で 3 ページが目標（先輩 3 ページ、今は約 7）で、2.4 の役目は「作業空間や運動学の指標で十分では」に答えることなので、その分だけ残せば足りる。ユーザーが 2.4 の残りを読み終えてから 1 回で書き直す ② 節・章への参照を減らす（第 1〜3 章は今、第 4・5 章は D-6 のとき）。理由: 先輩の 3 倍（括弧書きは 8 倍）で、台帳で出典を主張ごとに付ける癖が修論に入っていた。残すのは読者がそこへ行く必要がある初出 1 回 ③ 乱数の表記（乱数種・シード・seed）を統一する。理由: 3 通りが混ざり、seed は生成の乱数と学習の乱数の 2 つの意味で使っていた／⭐ **10-21 11 時 20 分（ユーザー、軸6 のスケール表 L-3a）: 29 行を決めた** — 案どおりの 25 行を一括（長さは × k、時間・重力・無次元の係数・初期接触の罰・AIST の接触の固定値はそのまま、箱は密度そのまま）・電源は 11.1 V（トルク上限 1.4 N·m・角速度上限 5.97 rad/s）・箱の滑りの減衰は止まる時間 τ ＝ 1.35 s を保つ（b ＝ 2.0 × k³）・制御コストは × k。理由: 長さだけ縮めて、そのスケールに乗る係数を洗わなかった 9-57 の型を避ける。時間を縮めないので、箱の止まる時間と報酬と制御コストの比を保つのが「同じタスクを小さくした」にあたる。電源は ROBOTIS の推奨値。残りは縮尺 k・A1・A2・A5・P1（10-23 のアームと部品から）と P3・P4（L-2b）（[設計/軸6_スケール表.md](設計/軸6_スケール表.md)）／⭐ **10-21 11 時すぎ（ユーザー「まだそのレベルに至ってないかも。md で勉強します。この勉強手順は勉強.md にまとめて」）: 発表用のスライドの前に、md で研究の中身を勉強する。** 手順は [執筆/勉強.md](執筆/勉強.md)（段 0〜5 の読む順番と確認の問い → 白紙テスト → スライド）。理由: いきなり白紙で説明する段階にはまだ無いので、読む順番と、各段で答えられるべき問いを先に用意する。数値は D-6 の途中なので覚えず、筋と仕組みから入る。Claude は聞かれたら用語の説明・照合・口頭試問をする（スライドは引き続きユーザーが作る）。⭐ 同日 11 時 15 分（ユーザー）: **勉強は Claude のセッションが上限に達して使えない時間にやる。使える間は Claude を使う作業を進める**（理由: 勉強は Claude なしでできるので、Claude を使える時間を Claude にしかできない作業に回す）／⭐ **10-21 11 時（ユーザー「push していいよ／キューも投入して。D-7 はやるかもまだ決めてないし、ホッケーの後で／d-5 はあなたの案のおすすめで」）**: ① `main`（03ca909..32dcd0a）と `feat/layer4-robotassembler`（27b3fd4、新規）を push した（次の push も改めて確認する）② D-5 のキュー `scripts/queue_obspen_phys.sh` を投入した（10 時 57 分、PID 2844400、HEAD 2f2bb7b）。順番は 本キューの最後の起動 → ホッケー seed1 → D-5 の 2 本。ホッケー seed1 は起動役がいなかった（10-20 に hockey キューの bash を止めた）ので、D-5 のキューから `queue_hockey_phys_g10_blk3d.sh` を書き換えずに呼ぶ（seed0 は飛ばされる）。理由: ホッケー seed1 は 10-20 に「本キューの後」と決めてあり、D-5 はその後とユーザーが決めた。D-7 は未定（やるなら後ろに足す）③ D-5 の修論の置き場所は 4.4 に短い 1 項＋5.3 (D) に 1 文（修論 4.4 冒頭の執筆メモ・系譜 9-275）。理由: 形でなく制御に失敗を帰属した唯一の実例で、5.3 だけでは表と数値が消えて弱点としてしか読まれない／⭐ **10-21 10 時 50 分（ユーザー「おすすめで」）: 作れるリンク長の数え上げ `scripts/enum_irsl_link_lengths.py` を main から外し、main から切り直した `feat/layer4-robotassembler` へ移した**（台帳・md の記録は main）。理由: 研究方針「ブランチの使い分け」で RobotAssembler 専用のコードはこのブランチと決めてあり、main にコミットしたのは決まりに反していた（Claude の誤り）。回すときは `git worktree add` で取り出す（評価スクリプト.md）／⭐ **10-21 10 時 50 分（ユーザー）: 軸6 の範囲** — RobotAssembler は実験軸の 1 つでシステムに組み込まない。自動組み立ての仕組みは作らず、Tripo3D の立体のリンク長と軸の向きを、ユーザーが研究室の部品で近い大きさに手で組む。理由: 軸6 の問いは「部品で作れる設計空間でも同じシステムが通るか」で、自動化は要らずスコープを越える。道具は手で組むときの参照（作れるリンク長の表、9-277）までにとどめる（研究方針「軸6 の範囲」）／⭐ **10-21 10 時（ユーザー）: 今日の順番** — ① dist の取り直し 2 本（15 時ごろ完走）→ `check_before_conclusion.py`・目視 → 読み ⑲・② を判定 → 系譜 → 修論 4.3.3.4 ② 23 時半ごろの 2 本（短腕の到達 `_cg`・押しの dist `_cg`）→ 読み ⑳・① の後半・③・⑤ の読み直し・R4 の残り → そろったら D-6（4.3.3.3・4.4.4・4.5.3・付録D.4）③ 待ち時間に D-5 ④ 手が空いたら軸6 の下ごしらえ（KXR のサーボの諸元を公開資料で調べ、スケール表 L-3a の枠を作る。アームは 10-23 着）。理由: 判定は完走の時刻で決まるので、その間に GPU の要らない作業を入れる。D-6 は判定がそろってから 1 回で書く（表の中で旧い物理と実在の物理を混ぜない、9-273）／⭐ **同日（ユーザー）: D-5 のキューの作り方** — 腕は `e2e_a1v_phys_arm171` に柱を足した XML（`make_obstacle_reach_xml.py`）、起動行は `e2e_a1v_reach_phys` と同じにし、障害物ペナルティ（`obstacle_penalty_scale`）1.0 だけを足す。2 seed、読みは結果の前にキューの頭に書く。入れるのは本キューの後（10-26 以降）で、**投入の前にユーザーに確認する**。修論の置き場所（第 4 章の短い 1 項か 5.3 節の限界か）は Claude が理由付きで案を出し、ユーザーが決める。✅ 10-21 10 時: キューを作った（`scripts/queue_obspen_phys.sh`、**未投入**、系譜 9-275。投入前の確かめ: 柱は今の物理の実走で腕を止める・`arm_safe_init` なしでも初期姿勢は柱から 280 mm 以上）。理由: 到達の基準の run と比べて柱と罰だけが違う形にする（係数 1.0 は旧い `e2e_a1v_obspen_reach(_s2)` と同じなので、旧い結果とも係数で食い違わない）／⭐ **同日（ユーザー）: push はユーザーの確認の後**（未 push は origin/main の c45ccc3 より後の 32 本、10-21 10 時時点）。理由: 公開リポジトリへ出すので、出すものをユーザーが見てから（CLAUDE.md §6）。✅ 同日 10 時半すぎ、ユーザー「push していいよ」で c45ccc3 より後を push した（次の push も改めて確認する）／⭐ **同日（ユーザー）: 軸6（RobotAssembler）のアームのサーボは XL430-W250-T**（KXR の KRS-3301 ではない）。理由: ユーザーが組むアームの実物がそうであるため。スケール表（`設計/軸6_スケール表.md`）の §0 を XL430 の公式値に差し替えた（系譜 9-276）。⭐ 同日（ユーザー「この研究室の部品です」）: **骨組みも研究室の部品**（LEGO＋XL-430 用フレーム）。部品ライブラリは `/choreonoid_ws/install/share/choreonoid-2.3/robot_assembler/irsl/irsl_assembler_config.yaml`（GitHub の IRSL-tut/robot_assembler_config_IRSL、手元は HEAD `8affd52`＝10-21 時点の最新）。理由: 届くアームの実物がこの部品で組まれているため。KXR から出した「1 リンクの上限 212.8 mm」「作れる長さ 339 通り」は使わず、このライブラリから出し直す／⭐ **10-21 9 時 43 分（ユーザー）: 障害物 Reach（D-5）は「柱を避けて届く」まで学習させない。「避けて届く姿勢は幾何的にあるのに、学習がそこへ届かない」を実験結果として扱う。**理由: 判定器の出力としては正しく（幾何の判定は「できる」、学習が届かないのは制御の限界、系譜 9-161）、結果として十分に意味がある。初期姿勢・seed 追加などで届かせる案は採らない。古い 2 本は旧い物理（seed1 の到達は 5 cm より深い接触を捨てる穴によるもの、9-274）なので、修論に書くには今の物理で 2 seed を回し直す必要がある（⏳ 投入と修論のどこに書くかは次のチャットで）／⭐ **10-21 朝（ユーザー「直して取り直す」）: 短腕を門を直して取り直す**（系譜 9-271）。到達の短腕も Bug 72 の穴（台座に 114 mm、NaN で話が切れ best −120.66 が汚れた）。到達は `tripo_pj_short_phys_cg` で取り直し、押しの短腕は最初から `_cg`。`scripts/queue_short_capgate.sh`（PID 2626461）。`single_run/tripo_pjp_short_phys/log/` は queue_phys.sh に飛ばさせる目印（学習していない）。理由: 読み ①後半・③ は変わらないが、短腕は表 4.12・4.18・R4 の 3 か所で比べる相手で、汚れた値は載せられない。後から足した run の自動再生は別の実行（PID 2626509）で回す／⭐ **10-20 夜（ユーザー「A で」）: 2.11 倍の押しに seed1 を足し、短腕は 1 seed のまま**（系譜 9-267）。`scripts/queue_rec211p_s2.sh`（PID 1942055）が `tripo_pjr211p_phys` の起動を待ってから `tripo_pjr211p_phys_s2` を入れる。理由: 読み ⑰「動かせる」は学習しだいで幾何では保証されないので 2 seed が要る。短腕は届く範囲 0.403 m に対し到達の目標 0.8 m・押しの箱の手前の面 0.85 m で、届かないことが幾何で決まるので 1 本で足りる（修論 4.1.2 に書いた）。閉ループの押しと付録D は約 4 時間遅れる／⭐ **10-20 夜（ユーザー）: 修論の「4.6 軸5」をやめ、4.1.1 に吸収した** — 実験の前に「以降の実験はこの値で行う。原論文の値はこう、本研究は実在の部材と UR5e からこう導いた」を 1 枚の表（表 4.2、原論文の値／本研究の値／根拠）で示す形。旧 4.7（ホッケー）は 4.6 へ。理由: 全部の実験を最初から実在の値で行ったので、軸5 に残っていたのは値と導き方（＝方法）だけで、表 4.2 と表 4.21 が二重になっていた。理由づけは「sim と現実の差を縮めた」ではなく「機構として成り立たない解を設計空間に入れない」と書く（差の解消はスコープ外、5.3 節）／⭐ **10-20 夕（ユーザー）: 軸6（RobotAssembler）の締切は予備審査ではなく実験の凍結（1 月上旬）。最終発表は 2027-02-18、修論の提出は発表の翌日ごろ（ユーザーの見込み、確定日は未確認）。**理由: 予備審査（12 月頭）に間に合わなくても、12 月に回せば修論には入れられる。11-08 までに L-4 が始まれば予備審査にも入れる（[進捗.md「全体スケジュール」](../進捗.md)）／⭐ **10-20 午後（ユーザー）: 修論の添削の進め方** — ユーザーは修論の口語版（`執筆/修論_口語版/`）に指摘し、Claude は本文（`修論ドラフト/`）も同じに直す。指摘は型に一般化して [わかりにくい文の判定.md](執筆/わかりにくい文の判定.md) §3 に足し、同じ型を両版で洗う（理由: 口語版のほうが読みやすいので読み手として指摘しやすい。指摘をその 1 か所で終わらせず、他の章にも効かせる。最初の適用は 1.3、`53cd6a9`）／⭐ **10-20 昼（ユーザー）: 予備審査は 12 月頭。障害物 Reach（D-5）はやる、D-3 は微妙（未定）。**全体のスケジュールは [進捗.md「全体スケジュール」](../進捗.md) に置いた（理由: やることの正が進捗.md なので、日程も同じ場所に置いて食い違いを防ぐ）／⭐ **10-20 昼（ユーザー）: バグの修正と取り直しの打ち切り基準を決めた**（全面の取り直しは 11-15 までに始めるものに限る・固有のバグは読みの判定が変わるときだけ取り直す・道具のバグは直すだけ。理由と表は [研究方針.md「打ち切り基準」](方針/研究方針.md)）／⭐ **同日: ホッケーは発展課題として後回し**（理由: R1〜R4 の外の確認で、実在の物理で 4 回目の取り直し。blk3d seed0 は完走させ、seed1 は本キューの後。`queue_hockey_phys_g10_blk3d.sh` の bash（PID 400706）を 12:4x に止めた。blk3d を最後の取り直しにする）／⭐ **10-20（ユーザー）: 指示の層（CLAUDE.md・メモリ・プラグイン）から、根拠の消えた禁止や範囲を越えた禁止を減らす** — ① ponytail プラグインをこのリポジトリで無効（`.claude/settings.json`。理由: 「必要になるまで作るな・説明は 3 行まで」が CLAUDE.md §5-2 ⑤-4 の安全装置の考え方と記録の規律にぶつかる）② メモリ「確認せず一気通貫」を「作業は止めず、研究上の判断と取り消せない操作は諮る」に書き直し（理由: 後から入った「返事を待つ」手順と食い違っていた）③ ファイルリンクのメモリを削除（理由: 今の VSCode ではマークダウンリンクで開ける）④ 旧い物理の結果や古い節番号を持つプロジェクトメモリ 5 件を削除（理由: 撤回済みの結果を今の結論として毎回読ませていた。中身はデバッグ戦記・修論・コードにある）。CLAUDE.md の取り下げ済みの命令 2 つは ed644bf で外した。⑤ 同日（ユーザー「おすすめで」）: 平易語のメモリを作業用の md に限る（修論は分野の普通の用語。理由: 修論で言い換えを戻す手間が出ていた）・CLAUDE.md の訂正の手順を台帳と修論で書き分け・「性能を上げようとしている自分」を報酬やタスクを足す変更に限る・指示の層も週 1 回棚卸し（`check_rule_zombies.py` を新設）・CLAUDE.md は節を触ったときにその節だけ縮める（一度に全部はやらない）／⭐ **10-19（ユーザー）: 修論の序論は先輩の形にそろえる** — 1.2 の最後で課題を受けて本研究のアプローチを述べ、1.3 は「目的と成果」（理由: 1.2 後半と 1.3 で同じ話を 2 回していた。先輩の序論はアプローチの節を別に持たない。削除・圧縮記録 10-19）／⭐ **10-19（ユーザー）: yomiyasu（github.com/nanaism/yomiyasu、日本語の推敲スキル）は文章を書き換える道具ではなく、「いまの文章を通すとどんな指摘が出るか」を見るもう一人の読者として使う**（理由: 書き換えを任せると採否の判断が見えなくなる。要旨で試すと lint は文の書式しか拾わず、ユーザーが感じた構成の違和感 4 点は拾わなかった＝人の読みの代わりではなく補い。要旨の書き直しは系譜外、コミット 15a1a43）／⭐ **10-19（ユーザー）: 今週（10-19〜10-25）の作業の順番は [進捗.md](../進捗.md)「今週やること」の流れのとおり。輪講は 11/9**（理由: 返事待ちを先に出し、論文チェックは今週の判定の前後 2 回に分けて読み直しを避ける。輪講は 3 週間先なので今週は題材と素材まで）／修論は腕の自己干渉を「最初から考慮した設定」で書く（条件 3 つ、研究方針.md）／ホッケーは修論に入れる（決定は 10-09。根拠の 9-229 のゴールは旧い物理＝9-246 で撤回。実在の物理では取り直し中、9-263）／ユーザーは 10-11 から約 1 週間タイ（スマホから指示。再起動時に頼める人あり） |

diff --git a/docs/研究応用/台帳/実験系譜.md b/docs/研究応用/台帳/実験系譜.md
@@ -28,7 +28,7 @@
 
 ## 📇 第9段の索引（主題別）
 
-**第9段は 9-1 から 9-281 まであり（2026-10-22 時点。この前書きは 9-75 の頃に書いた）、時系列で積んだだけなので番号順に意味は無い。**
+**第9段は 9-1 から 9-282 まであり（2026-10-22 時点。この前書きは 9-75 の頃に書いた）、時系列で積んだだけなので番号順に意味は無い。**
 主題で引く。⛔ は撤回・取り下げ、⚠ は解釈を訂正した段。
 
 ### A. 判定器としての能力（順位づけ）
@@ -221,6 +221,7 @@
 | ⛔⛔⛔ **9-247** | ⛔⛔⛔ **全 run の物理が非決定的だった（Bug 64）**。`tickRequest(True)` は step の開始で戻り、Python が計算中の状態を読み書きしていた。同じ入力で最大 157 mm ずれ、速度の上限が漏れ、ホッケーの壁ブロックは腕を断続的に止めていた。`CNOID_TICK_SYNC=1` で直り、2 回が 0.0 mm で一致 |
 | ⭐⭐ **9-248** | ⭐⭐ **物理の大きな変更の影響を、同じ形・同じ seed の 5 つの版で比べた**（押しの柱 long・mid）。読み ⑭ 成立（armature 0.64 で続ける）。⛔ 旧い版で「箱が 1 step 目から動く」のは Bug 64（初期状態が守られない話がある）。⛔ **Bug 65: 速度の上限が位置で漏れ、実効の最高速度が形で変わる**（6〜57 %）。平面の押しへの影響は −9〜+1 % |
 | ⭐⭐ **9-249** | ⭐⭐ **Bug 64 を一次証拠で監査 → 正当**（ソースで確認、同じ入力の 2 回が旧 最大 213 mm・新 0.000 mm を再現）。⛔ **Bug 66**: 第3層の診断と比較の道具が学習時の物理を読んでいなかった（使用率 40/33/12 → 67/68/16 %）→ 直した。差分テストの S5 は台本の欠陥 |
+| ⭐ **9-282** | ⭐ **マトリクス 10 本（実在の物理）の収束した gear・太さと、短腕との順位が決まったエポック**。旧い物理の「短腕は 3 関節とも gear・太さが下限」「第 26 エポックまで短腕が上」はどちらも再現しない（短腕の gear は J1 150・J3 20、長腕・中間は ep0〜2 から短腕を下回らない）。「下限への張り付きは不適合の指標にならない」は保たれる（届いた中間 seed0 が gear 3 関節とも 20）。修論 4.4.3.1・4.4.3.2・4.6.3 の D-6 の材料 |
 | ⛔ **9-281** | ⛔ **R1 の取り直しは凍結が効いていなかった（Bug 74）**。`config.py` が `+robot_param_scale` を捨て、凍結した押しと凍結しない押しが全 epoch 一致（seed0 200 epoch・seed1 60 epoch）。seed1 を止め、FLAG から読むように直して `_fx` で取り直す（`queue_r1_fx.sh`）。`check_before_conclusion.py` に曲線の一致の検査 |
 | ⭐ **9-280** | ⭐ **押しの短腕（`_cg`）を判定 → ⑯ 成立**（箱 0.00 m、届く半径 0.403 m ＜ 箱の面 0.85 m）。押しのマトリクスは長腕 ＞ 中間 ＞ 短腕、到達は中間 ＞ 長腕 ＞ 短腕で、表 4.12 が埋まった |
 | ⭐⭐ **9-279** | ⭐⭐ **押しの dist と到達の短腕（門を直した `_cg`）を判定 → ⑲ 3/3・⑳・⑤-a・① の後半・③ が成立**: 押し prox [11.39, 12.09] 対 dist [5.38, 7.04]、到達 中間 ＞ 長腕 ＞ 短腕（−397.20）。⛔ **押しの差の説明「立ち上がりやすさが主因」（9-258）は崩れた**（門を直した dist seed0 は ep10 で 62 % の話で箱に触れ、押せた）。差は押せた後の押す量に出る |
@@ -13348,6 +13349,34 @@ cube も遠くまで飛ぶ（x=10.5 対 8.9）。⚠ 床下は 1 本（台座
 ⭐ bank7 との差は上の 2 スイッチだけ。**最初から 200 epoch**（bank7 の重みは抜け道ありで育ったので使わない）。
 
 ---
+
+### ⭐ 9-282. **マトリクスの 10 本（実在の物理）の収束したギア比・太さと、短腕との順位が決まったエポックを測った — 旧い物理の「短腕は 3 関節とも gear・太さが下限」と「第 26 エポックまで短腕が上」はどちらも再現しない。「下限への張り付きは不適合の指標にならない」は保たれる（届いた中間 seed0 が gear 3 関節とも下限）**（2026-10-22 11 時、D-6 で修論 4.4.3.1・4.4.3.2 を書き直すための実測。ユーザー「次やるべきことに行こう」）
+
+**出典**: ギア比と半径は各 run の `trace/arm_trace.npz`（postrun の `record_arm_trace.py`、best checkpoint）の `ep_gear`・`ep_geom` の第 1 話（5 話とも同じ）。best とその最後の更新エポックは `log/log_train.txt` の `save best checkpoint`。探索範囲は `pusher_gearonly_real` の gear 20〜150・半径 0.03〜0.10 m。
+
+| run | タスク | best（最後の更新 ep） | gear J1 / J2 / J3 | 半径 r1 / r2 / r3 [m] |
+|---|---|---|---|---|
+| `tripo_pj_short_phys_cg` | 到達 | −397.20（52） | **150** / 109.7 / **20** | 0.030 / 0.030 / 0.036 |
+| `tripo_pj_mid_phys` | 到達 | −1.85（184） | **20 / 20 / 20** | 0.046 / 0.030 / 0.100 |
+| `tripo_pj_mid_phys_s2` | 到達 | −1.43（192） | 150 / 20 / 20 | 0.031 / 0.100 / 0.100 |
+| `tripo_pj_long_phys` | 到達 | −9.68（172） | 20 / 35.8 / 31.9 | 0.031 / 0.030 / 0.075 |
+| `tripo_pj_long_phys_s2` | 到達 | −9.29（172） | 150 / 74.4 / 20 | 0.100 / 0.030 / 0.100 |
+| `tripo_pjp_short_phys_cg` | 押し | −0.00（162） | 145.0 / 85.7 / 66.9 | 0.033 / 0.030 / 0.030 |
+| `tripo_pjp_mid_phys` | 押し | 10.42（157） | 150 / 133.0 / 136.5 | 0.070 / 0.032 / 0.100 |
+| `tripo_pjp_mid_phys_s2` | 押し | 9.85（195） | 150 / 124.4 / 130.3 | 0.050 / 0.045 / 0.100 |
+| `tripo_pjp_long_phys` | 押し | 24.92（195） | 108.3 / 144.1 / 108.1 | 0.032 / 0.030 / 0.041 |
+| `tripo_pjp_long_phys_s2` | 押し | 22.68（195） | 150 / 137.0 / 79.8 | 0.070 / 0.030 / 0.100 |
+
+**結果**:
+
+1. ⛔ **旧い物理の「短腕は 3 関節とも gear 20・太さ下限」（修論 4.4.3.1 表 4.11、形態比較 ④）は実在の物理では成り立たない。**短腕の到達の gear は J1 が上限 150、J2 109.7、J3 だけ下限 20。太さは 3 本とも下限の近く（0.030〜0.036 m）。
+2. ✅ **「下限への張り付きは単独では不適合の指標にならない」（修論 4.4.3.1・CLAUDE.md §6）は保たれる。**届いた中間 seed0（誤差 1 mm 未満、9-268）が gear 3 関節とも下限 20。⚠ ただし旧い物理の「同じ署名が不適合な形と達成した形の両方に出る」のうち、実在の物理で出たのは達成した側だけ（不適合な短腕の gear は張り付かない）。
+3. ⚠ **到達の gear は seed で大きく振れる**（同じ形で J1 が mid 20 対 150、long 20 対 150）。到達の gear から形の性質を読まない。観察だけ: 押しの 5 本は J2・J3 とも 66.9 以上、到達の 5 本は J3 が 4 本で下限 20（R2 の「押しは強いモーター」9-261 と向きは合う。横型 3 関節は R2 の対象ではないので結論にしない）。
+4. ⛔ **旧い物理の「第 26 エポックまで不適な短腕のほうが高い（確信をもって誤る）」（修論 4.4.3.1・4.6.3）は、この組では再現しない。**exec_R_eps を毎エポック比べると、長腕 seed0 は ep2、長腕 seed1 は ep0、中間 seed0 は ep2 から後、一度も短腕を下回らない（ep0 は長腕 seed0 −1146 対 短腕 −906）。R4（9-279「短腕を含む 3 対は 1〜2 エポックで確定」）と一致。→ 4.6.3 の「序盤の値は確信をもって誤っている」段落の実例は旧い物理のもの。D-6 で 4.6.3 を書くとき、実在の物理で同じ型の例があるか（確定エポックが長い押しの prox 対 dist seed0、26 エポック）を見る。
+5. ⛔ **旧い物理の「短腕は第 10 エポック以降値が変わらない」も再現しない**: 実在の物理の短腕の到達は ep10〜199 で −806〜−397 の間を動く（best は ep52）。
+6. best の最後の更新は ep157〜195（短腕の到達を除く）で、200 エポックで収束したとは言えない。順位は帯が重ならないことで判定している（9-268・9-259）。
+
+**反映**: 修論 4.4.3.1（表 4.11 を実在の物理の値に）・4.4.3.2（表 4.13 は表 4.12 と同じ対応なので外す・旧い物理の限界 1〜4 を外す・図 4.4 を作り直す）の両版、形態比較 ④ に注記、CLAUDE.md §6 の「同じ署名が両方で生じる」の 1 句。
 
 ### ⛔ 9-281. **R1（形を凍結した押し）の取り直しは、凍結が効いていなかった — `config.py` が起動行の `+robot_param_scale=0.0001` を捨て、凍結しない run と全 epoch 同じ学習になった（Bug 74）。直して `_fx` で取り直す**（2026-10-22 10 時半、新しいチャットの最初の確認で発見。ユーザー「止める」「いいよ」）
 

diff --git a/docs/進捗.md b/docs/進捗.md
@@ -105,7 +105,7 @@
 
 | # | やること | 状態 | 備考 |
 |---|---|---|---|
-| 🟡 **D-6** | ⭐⭐ **修論の書き換え（取り直しの結果がそろってから 1 回で）**: ⭐ **10-18 に判定済みの分だけ先に書き入れた**（4.3.2 R2・表 4.12 の Pusher 列・4.3.3.4 の押し・5.2.3。削除・圧縮記録 2026-10-18）。4.3.3.3 の本文は到達側の判定後。⛔ **軸5 の 4.6.3（+21 %・−36 %、表 4.22 の「〜のみ」）・4.6.4 の実在条件・付録D は、旧 run の報酬の設定がそろっていなかった（Bug 59・系譜 9-238）。要旨・第5章の −36 % も差し替え後に書き直す。** 押し・軸5・付録D・ホッケーの値を `*_scgc` へ（⭐ 縦型は台座の形を固定した条件であることを方法に書く。9-235）（9-232。`*_scg` は Bug 57 で使わない）／自己干渉の設定を方法に・隣り合う組を 5.3 へ／ホッケーの節を新設（第1章のタスク数・3.12 第2層も） | ⏳ 10-16 ごろから | 系譜 9-227・9-228・9-230、研究方針「修論の書き方の決定」 |
+| 🟡 **D-6** | ⭐⭐ **修論の書き換え（取り直しの結果がそろってから 1 回で）**: ⭐ **10-22 11 時: 4.4.3.1・4.4.3.2 を実在の物理で書き直した**（両版。表 4.11・図 4.4 を作り直し、表 4.13 と限界 1〜4 を外した＝型 27 の候補 ④。表 4.13 は欠番のまま、振り直しは 50 ページ化の後に 1 回で。旧い物理の「短腕は gear・太さが下限」「第 26 エポックまで短腕が上」は再現しない、系譜 9-282。PDF 69 ページ）。残り: 4.6.3（R4、執筆メモに 9-282 を書いた）・5.3 (D) の「約 4 時間」・4.4.3.3・4.5.x。⭐ **10-18 に判定済みの分だけ先に書き入れた**（4.3.2 R2・表 4.12 の Pusher 列・4.3.3.4 の押し・5.2.3。削除・圧縮記録 2026-10-18）。4.3.3.3 の本文は到達側の判定後。⛔ **軸5 の 4.6.3（+21 %・−36 %、表 4.22 の「〜のみ」）・4.6.4 の実在条件・付録D は、旧 run の報酬の設定がそろっていなかった（Bug 59・系譜 9-238）。要旨・第5章の −36 % も差し替え後に書き直す。** 押し・軸5・付録D・ホッケーの値を `*_scgc` へ（⭐ 縦型は台座の形を固定した条件であることを方法に書く。9-235）（9-232。`*_scg` は Bug 57 で使わない）／自己干渉の設定を方法に・隣り合う組を 5.3 へ／ホッケーの節を新設（第1章のタスク数・3.12 第2層も） | ⏳ 10-16 ごろから | 系譜 9-227・9-228・9-230、研究方針「修論の書き方の決定」 |
 | ⏳ **D-7** | **結合テスト本番**（不適合な形 → 第1層が棄却 → 自動で N 倍 → 通過 → 学習で達成）。D-3（人が描き直す版）の自動版 | ⏸ **まだやらない（10-21 17 時、ユーザー）**。⏳ GPU 待ち（⚠ 10-18 棚卸し: `queue_phys.sh` には入っていない。順 8 の 2.11 倍の押しは修論 4.4.4 の取り直しで、これとは別。回すなら `*_phys` の値で、投入はユーザー判断） | 旧 B-1。つなぎ目は 9-183 で動いた。⚠ `e2e_b1` は Bug 50 で無効（0.6 倍が候補） |
 | ✅ **D-8** | **ホッケーの緩めた条件の扱い** | ✅ **決定（ユーザー、10-09）: 戻さず「緩めた版」と修論に明記する**（ゴール口 0.15 → 0.35・初期 y ±0.40 → ±0.25、9-121） | ⚠ 2 つを同時に緩めたので、どちらが効いたかは分離していない。それも書く（D-6 の書き換えで） |
 | ✅ **D-9** | 修論 4.5.3 に「見込み達成度が学習に依存するから較正が要る」という因果を書く／5.4 の筆頭に RobotAssembler を今後の課題として書く | ✅ **済み**（4.5.3 の因果と 5.4 の RobotAssembler の項は 10-02 の e0d5660 で書いてあった。⏳ のまま残っていた。10-19 に 5.4 の項を 3 番目から筆頭へ移した） | 旧 M-1・M-2（10-02 ミーティング）。⭐ 旧 M-3（実機の想定スケール）は 10-09 にユーザー判断で閉じた（研究方針「実機の想定スケール」）。⭐ 10-19 に 4.5.3 に残っていた取り下げ済みの読み「長腕の慣性が大きく立ち上がりが遅い」（知見総括表 E 節、9-49）を「機序は特定していない」へ直した |

diff --git a/docs/研究応用/台帳/形態比較.md b/docs/研究応用/台帳/形態比較.md
@@ -595,6 +595,8 @@ Reach は先端が軽いほど慣性が小さく精密に止められる。**タ
 2.4 倍劣る `dist` も含まれる。**署名だけでは両者を区別できない。**
 判定には幾何（届くか）か行動（実際に到達したか）を必ず併用すること。
 
+> ⭐ **2026-10-22、実在の物理のマトリクス 10 本（系譜 9-282）**: 上は旧い物理の値。実在の物理では、**届いた中間 seed0 が gear 3 関節とも下限 20**（太さは 0.046 / 0.030 / 0.100）なので、「署名だけでは不適合と言えない」は保たれる。⛔ ただし**不適合な短腕の gear は張り付かない**（J1 150・J2 109.7・J3 20。太さは 3 本とも下限の近く）。到達の gear は同じ形でも seed で振れる（J1 が mid 20 対 150、long 20 対 150）。表は 9-282。
+
 ### ⑤ 非平面 4 関節（v3）でも「先端の太さ」の分岐が再現した（2026-08-23 実測）
 
 **⭐ 2 seed で確定（2026-08-28 実測）**: `tripo_v3_reach2_s2` / `tripo_arm_v3_pusher_s2` の
